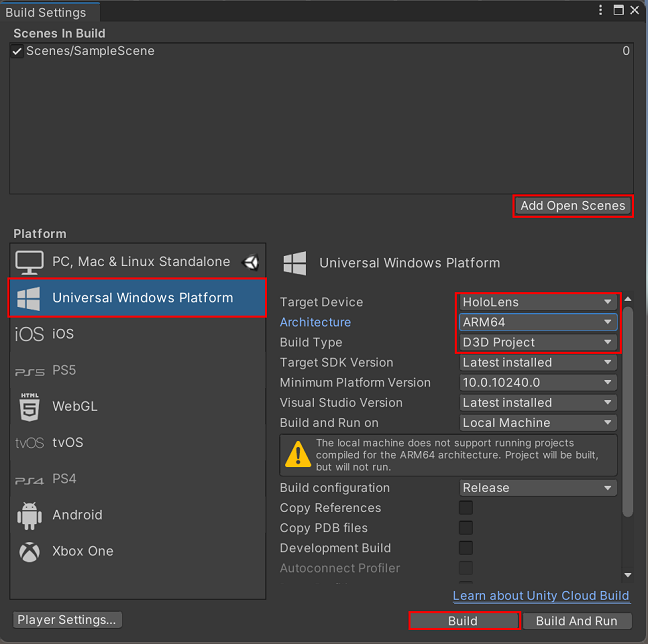
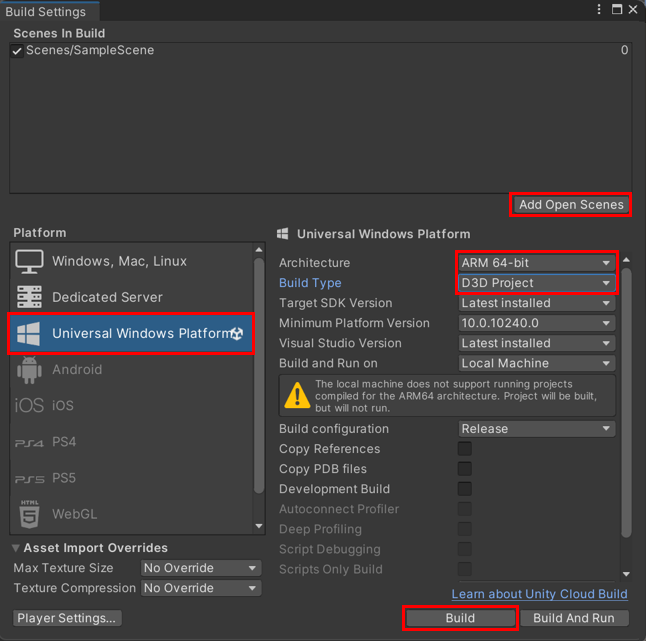
Updating Build Settings to Match New Unity Version

Changed region(s): [[0.0, 0.0, 1.0, 1.0], [0.031, 0.0624, 0.2477, 0.0936], [0.0, 0.0, 0.1548, 0.0312]]

diff --git a/microsoft-edge/webview2/get-started/hololens2.md b/microsoft-edge/webview2/get-started/hololens2.md
@@ -342,25 +342,24 @@ Now that we have a basic web browser working in Unity, we can build and deploy i
 1. Click **Add Open Scene** to add our sample scene to the list of scenes in the build.
 
 1. Under Universal Windows Platform, configure the build settings:
-   * **Target Device**: HoloLens
    * **Architecture**: ARM64
    * **Build Type**: D3D Project
 
    ![Unity's Build Settings dialog with Universal Windows Platform settings](./hololens2-images/unity_build_settings.png)
 
-1. Click **Build** to generate the IL2CPP build. This will open a file dialog to select the folder for the build files. We recommend you create a new folder (such as **Build**) under your project directory for this purpose. Once you select your build folder in the file dialog, Unity will begin generating the build. This can take a few minutes.
+2. Click **Build** to generate the IL2CPP build. This will open a file dialog to select the folder for the build files. We recommend you create a new folder (such as **Build**) under your project directory for this purpose. Once you select your build folder in the file dialog, Unity will begin generating the build. This can take a few minutes.
 
-1. When this operation completes, Unity should launch a new File Explorer with the output folder selected. Otherwise, navigate to the output folder manually.
+3. When this operation completes, Unity should launch a new File Explorer with the output folder selected. Otherwise, navigate to the output folder manually.
 
-1. Under your build folder, you will find a Visual Studio solution file (.sln). Double-click this file to open it in Visual Studio.
+4. Under your build folder, you will find a Visual Studio solution file (.sln). Double-click this file to open it in Visual Studio.
 
-1. In Visual Studio, select the **Solution Configuration** (such as **Release**). Then set the **Platform** to **ARM64**:
+5. In Visual Studio, select the **Solution Configuration** (such as **Release**). Then set the **Platform** to **ARM64**:
 
    ![The Solution Configuration and Platform settings dropdown lists in Visual Studio's toolbar](./hololens2-images/visualstudio_buildconfig.png)
 
-1. Make sure **Developer Mode** is enabled on your PC and on your HoloLens 2 device. See [Enabling Developer Mode](/windows/mixed-reality/develop/advanced-concepts/using-visual-studio?tabs=hl2#enabling-developer-mode) in _Using Visual Studio to deploy and debug_ in the Mixed Reality documentation.
+6. Make sure **Developer Mode** is enabled on your PC and on your HoloLens 2 device. See [Enabling Developer Mode](/windows/mixed-reality/develop/advanced-concepts/using-visual-studio?tabs=hl2#enabling-developer-mode) in _Using Visual Studio to deploy and debug_ in the Mixed Reality documentation.
 
-1. Click the **deployment target** drop-down and then do one of the following:
+7. Click the **deployment target** drop-down and then do one of the following:
 
    * If you're building and deploying via Wi-Fi, select **Remote Machine** as the deployment target:
 
